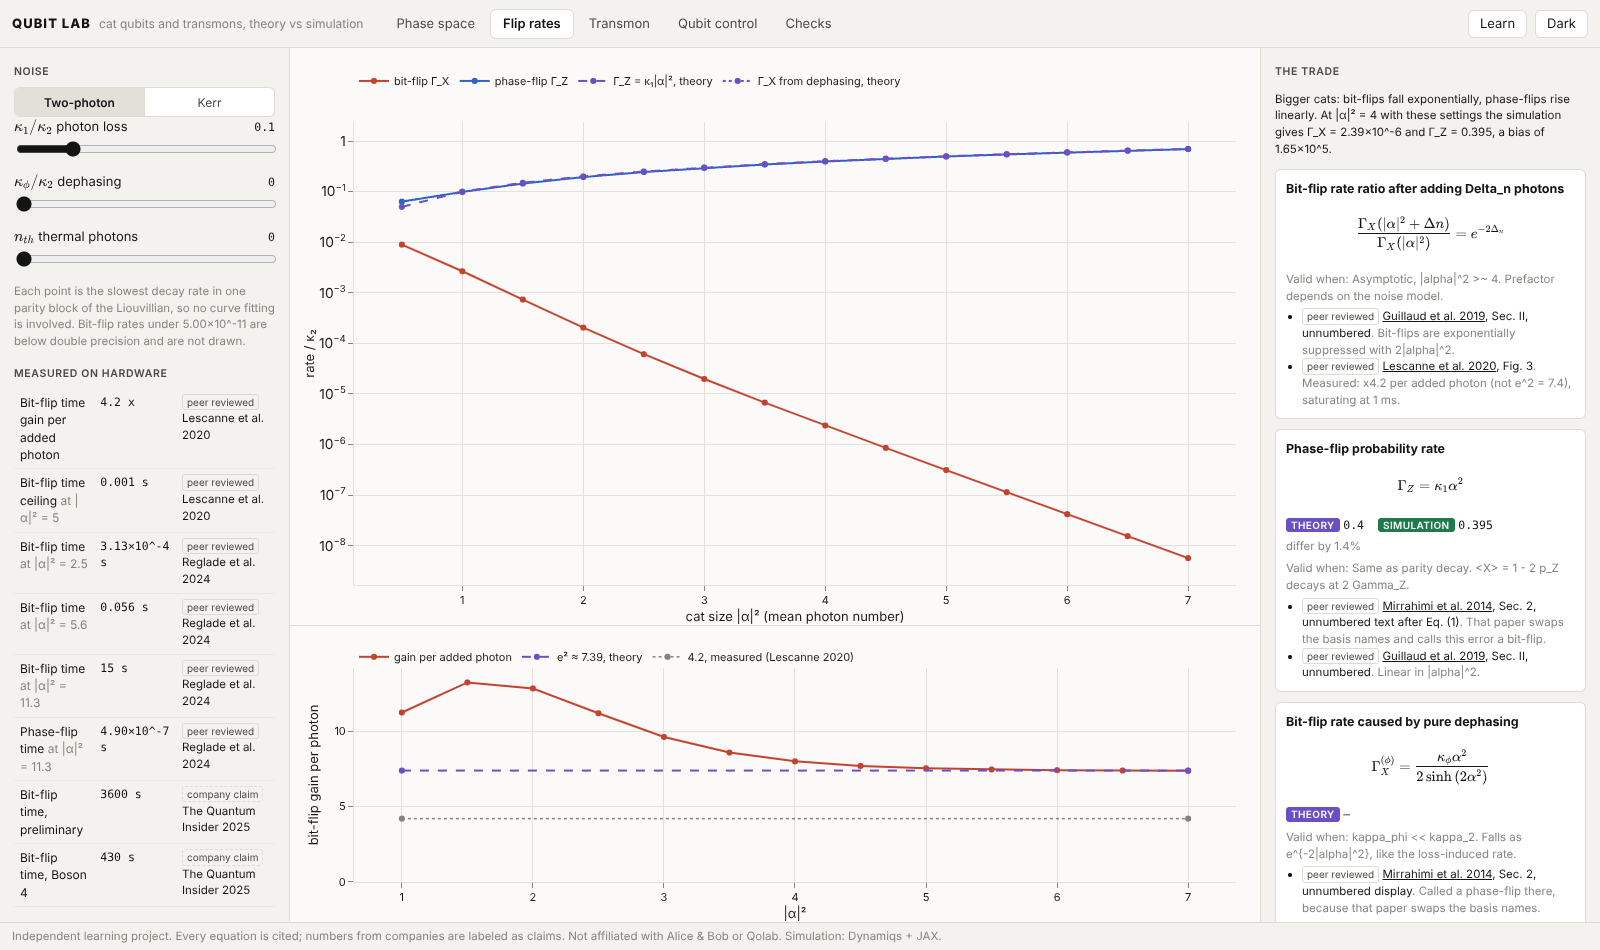
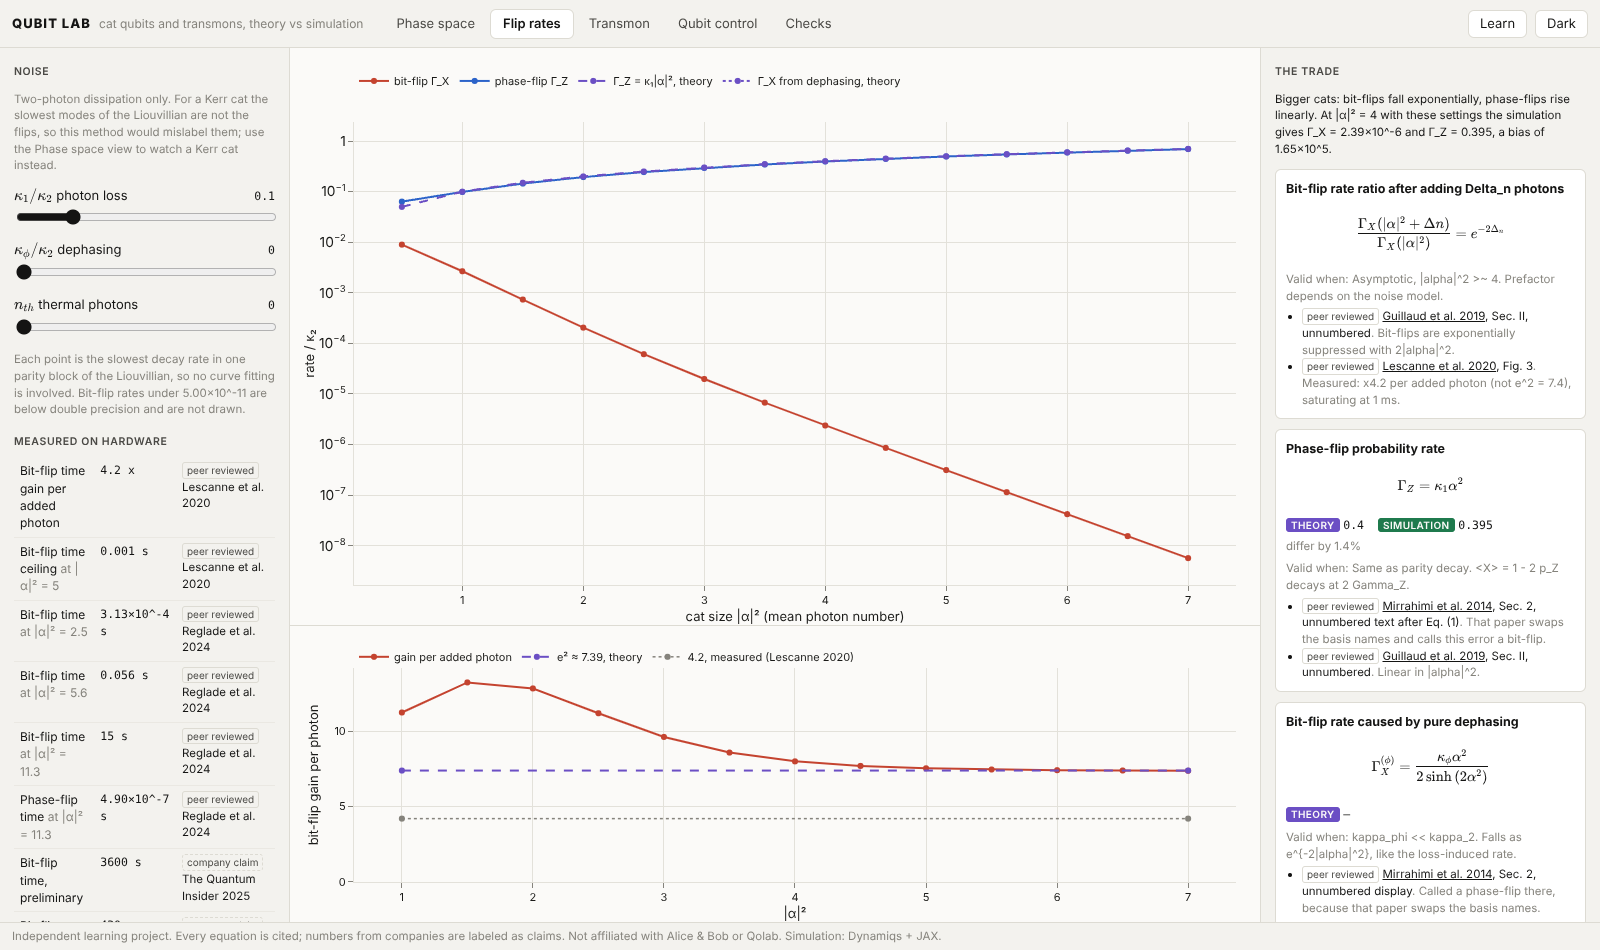
Physics review fixes
- Flip rates only for two-photon dissipation: for a Kerr cat or no stabilization the slowest
  Liouvillian modes are not the flips. Phase-flip rates below double precision are dropped.
- New derived formula: parity decay 2 kappa_1 |alpha|^2 coth(2|alpha|^2), exact in the two-cat
  space; matches the simulation to 0.2% at |alpha|^2 = 0.3 where the large-cat law misses by 86%.
- Docs: T2* vs T2, the 1-2 transition (not level 2) is |alpha| away, DRAG miss explained, the
  Kerr cats sit at the top of the spectrum for this sign of H, anharmonicity wording.

Changed region(s): [[0.0, 0.0916, 0.1875, 0.9463], [0.0625, 0.8853, 0.0938, 0.9158]]

diff --git a/web/src/views/FlipRates.tsx b/web/src/views/FlipRates.tsx
@@ -2,9 +2,9 @@
 // Liouvillian spectrum (simulation), theory lines from the closed forms, experiments as facts.
 
 import { useEffect, useState } from 'react'
-import { type CatParams, type Scheme, useFacts, useRates, useReferences } from '../api'
+import { type CatParams, useFacts, useRates, useReferences } from '../api'
 import { CONFIG, Plot, SERIES, layout } from '../components/Plot'
-import { ErrorBanner, FormulaCard, Segmented, Slider, shortCite } from '../components/ui'
+import { ErrorBanner, FormulaCard, Slider, shortCite } from '../components/ui'
 import { fmt } from '../lib/colormap'
 import { useExplorer } from '../store'
 
@@ -43,15 +43,10 @@ export function FlipRates() {
     <div className="view">
       <aside className="pane pane-left">
         <h3>Noise</h3>
-        <Segmented<Scheme>
-          label="Stabilization"
-          value={draft.scheme}
-          options={[
-            { value: 'dissipative', label: 'Two-photon' },
-            { value: 'kerr', label: 'Kerr' },
-          ]}
-          onChange={(scheme) => set({ scheme })}
-        />
+        <p className="small muted">
+          Two-photon dissipation only. For a Kerr cat the slowest modes of the Liouvillian are not the flips, so this
+          method would mislabel them; use the Phase space view to watch a Kerr cat instead.
+        </p>
         <Slider label="photon loss" tex="\kappa_1/\kappa_2" value={draft.kappa_1} min={0} max={0.5} step={0.01} onChange={(kappa_1) => set({ kappa_1 })} />
         <Slider label="dephasing" tex="\kappa_\phi/\kappa_2" value={draft.kappa_phi} min={0} max={0.5} step={0.01} onChange={(kappa_phi) => set({ kappa_phi })} />
         <Slider label="thermal photons" tex="n_{th}" value={draft.n_th} min={0} max={0.2} step={0.01} onChange={(n_th) => set({ n_th })} />

diff --git a/web/src/api.ts b/web/src/api.ts
@@ -59,7 +59,7 @@ export interface Evolution {
 
 export interface RateRow {
   alpha_sq: number
-  sim: { bit_flip_rate: number | null; phase_flip_rate: number; n_fock: number }
+  sim: { bit_flip_rate: number | null; phase_flip_rate: number | null; n_fock: number }
   theory: { phase_flip_rate: number | null; bit_flip_rate_dephasing: number | null }
 }
 

diff --git a/src/qubitlab/checks/cat_checks.py b/src/qubitlab/checks/cat_checks.py
@@ -112,6 +112,28 @@ def parity_decay() -> list[CheckResult]:
     return out
 
 
+@check("cat.parity_decay_exact", slow=True)
+def parity_decay_exact() -> list[CheckResult]:
+    # The coth form keeps the small-cat physics the large-cat law drops. It still assumes the
+    # state never leaves the two-cat space, so strong loss (kappa_1 ~ kappa_2) should break it.
+    regimes = ((0.3, 0.01, A), (1.0, 0.01, A), (4.0, 0.01, A), (1.0, 0.5, D))
+    out = []
+    for alpha_sq, k1, expected in regimes:
+        rates = sim.liouvillian_rates(sim.CatParams(alpha_sq=alpha_sq, kappa_1=k1))
+        out.append(
+            CheckResult(
+                key=f"cat.parity_decay_exact.{alpha_sq:g}.{k1:g}",
+                formula=th.parity_decay_rate_exact.key,
+                regime=f"|α|² = {alpha_sq:g}, κ₁/κ₂ = {k1:g}",
+                theory=float(th.parity_decay_rate_exact(kappa_1=k1, alpha=math.sqrt(alpha_sq))),
+                sim=rates.x_decay,
+                rel_tol=0.01,
+                expected=expected,
+            )
+        )
+    return out
+
+
 @check("cat.bit_flip_suppression", slow=True)
 def bit_flip_suppression() -> list[CheckResult]:
     # The e^{-2} per photon law is asymptotic: holds for big cats, not small ones.

diff --git a/docs/hand_calcs/cat_parity_decay.py b/docs/hand_calcs/cat_parity_decay.py
@@ -1,0 +1,21 @@
+"""Hand calc: parity decay of a stabilized cat, for any size.
+
+Two-photon dissipation keeps the state in the space spanned by the even and odd cats |C+>, |C->.
+A single-photon loss jump a turns |C+> into |C-> and back (a|C+> is proportional to |C->).
+The jump rate out of each state is kappa_1 <n> in that state:
+    n_+ = |alpha|^2 tanh|alpha|^2,   n_- = |alpha|^2 coth|alpha|^2   (gerry2005).
+For a two-state process with rates r1 (+ -> -) and r2 (- -> +), the difference of populations
+<P> = P_+ - P_- relaxes at r1 + r2. So
+    Gamma_P = kappa_1 |alpha|^2 (tanh|alpha|^2 + coth|alpha|^2)
+            = 2 kappa_1 |alpha|^2 coth(2|alpha|^2),     using tanh x + coth x = 2 coth 2x.
+For large cats coth -> 1 and this is 2 kappa_1 |alpha|^2.
+"""
+
+import sympy as sp
+
+x, k1 = sp.symbols("x kappa_1", positive=True)
+rate = k1 * x * (sp.tanh(x) + sp.coth(x))
+print("identity holds:", sp.simplify((rate - 2 * k1 * x * sp.coth(2 * x)).rewrite(sp.exp)) == 0)
+for n in (0.3, 1, 2, 4):
+    exact = float((2 * x * sp.coth(2 * x)).subs(x, n))
+    print(f"|alpha|^2 = {n}: Gamma_P / kappa_1 = {exact:.5f}  (large-cat law: {2 * n})")

diff --git a/src/qubitlab/theory/cat.py b/src/qubitlab/theory/cat.py
@@ -209,6 +209,29 @@ kerr_cat_amplitude = Formula(
     valid_when="H = -K a+^2 a^2 + epsilon_2 (a+^2 + a^2); |+-alpha> are degenerate eigenstates.",
 )
 
+parity_decay_rate_exact = Formula(
+    key="cat.parity_decay_rate_exact",
+    title="Parity decay, any cat size",
+    lhs=r"\Gamma_{P}",
+    expr=sp.Mul(
+        2,
+        kappa_1,
+        alpha**2,
+        sp.coth(sp.Mul(2, alpha**2, evaluate=False), evaluate=False),
+        evaluate=False,
+    ),
+    args=(kappa_1, alpha),
+    sources=(
+        Source(
+            "qubitlab_hand_calcs",
+            Kind.DERIVED,
+            "docs/hand_calcs/cat_parity_decay.py",
+            "Two-state jump picture: |C+> -> |C-> at kappa_1 n_+, back at kappa_1 n_-.",
+        ),
+    ),
+    valid_when="Two-photon dissipation dominates, so the state stays in the two-cat space.",
+)
+
 ALL = (
     coherent_overlap,
     wigner_coherent,
@@ -218,6 +241,7 @@ ALL = (
     odd_cat_photon_number,
     stabilized_photon_number,
     parity_decay_rate,
+    parity_decay_rate_exact,
     phase_flip_rate,
     bit_flip_suppression,
     bit_flip_rate_dephasing,

diff --git a/src/qubitlab/api.py b/src/qubitlab/api.py
@@ -56,6 +56,10 @@ class EvolveRequest(CatRequest):
 
 
 class RatesRequest(CatRequest):
+    # The Liouvillian block method reads the flip rates off the slowest modes. That is only
+    # right when the two cats are the slowest manifold, i.e. under two-photon dissipation. With
+    # a Kerr cat or no stabilization, faster-looking intra-well modes would be mislabeled.
+    scheme: Literal["dissipative"] = "dissipative"
     alpha_sq_values: list[float] = Field(
         default_factory=lambda: [0.5, 1.0, 1.5, 2.0, 3.0, 4.0, 5.0, 6.0, 7.0],
         max_length=20,
@@ -132,7 +136,7 @@ def _rates(body: dict[str, Any]) -> dict[str, Any]:
                 "alpha_sq": n,
                 "sim": {
                     "bit_flip_rate": r.bit_flip_rate if r.z_decay_resolved else None,
-                    "phase_flip_rate": r.phase_flip_rate,
+                    "phase_flip_rate": r.phase_flip_rate if r.x_decay_resolved else None,
                     "n_fock": r.n_fock,
                 },
                 "theory": theory,

diff --git a/tests/test_api.py b/tests/test_api.py
@@ -45,3 +45,8 @@ def test_qubit_t1_run_has_theory_curve() -> None:
 def test_qubit_rejects_t2_above_twice_t1() -> None:
     body = {"experiment": "t1", "t1_ns": 10.0, "t2_ns": 30.0}
     assert client.post("/api/qubit/run", json=body).status_code == 422
+
+
+def test_flip_rates_only_for_two_photon_dissipation() -> None:
+    # The Liouvillian block method mislabels modes for a Kerr cat or no stabilization.
+    assert client.post("/api/cat/rates", json={"scheme": "kerr"}).status_code == 422

diff --git a/docs/hand_calcs/kerr_cat_amplitude.py b/docs/hand_calcs/kerr_cat_amplitude.py
@@ -6,6 +6,8 @@ Classical limit: a -> a complex number b. The energy is
     E(b) = -K |b|^4 + epsilon_2 (b*^2 + b^2).
 For real b = x: E(x) = -K x^4 + 2 epsilon_2 x^2, and dE/dx = 0 gives x = 0 or x^2 = epsilon_2 / K.
 The two extrema x = +- sqrt(epsilon_2 / K) are the two cat states (degenerate, by symmetry).
+They are maxima of E, so with this sign of H the cats are the highest-energy states; they are
+the ground states of -H, the sign many papers use.
 """
 
 import sympy as sp

diff --git a/src/qubitlab/theory/qubit.py b/src/qubitlab/theory/qubit.py
@@ -72,7 +72,10 @@ ramsey = Formula(
     ),
     args=(t, T_2, sigma, Delta),
     sources=(hand("Step 4: Gaussian average of the fringe over a static detuning."),),
-    valid_when="Noise slower than one shot; sigma is its spread in frequency.",
+    valid_when=(
+        "Noise slower than one shot; sigma is its spread. T2 is the white-noise part; "
+        "the decay a Ramsey experiment measures is T2*."
+    ),
 )
 
 echo = Formula(

diff --git a/src/qubitlab/sim/cat.py b/src/qubitlab/sim/cat.py
@@ -159,6 +159,10 @@ class Rates:
         return self.z_decay > RATE_FLOOR
 
     @property
+    def x_decay_resolved(self) -> bool:
+        return self.x_decay > RATE_FLOOR
+
+    @property
     def bit_flip_rate(self) -> float:
         return self.z_decay / 2
 

diff --git a/docs/learn/06-qubit-control.md b/docs/learn/06-qubit-control.md
@@ -4,11 +4,11 @@ A qubit is only useful if you can rotate it and it remembers where it was. Two n
 
 **Rotating it.** A microwave drive at the qubit frequency turns |0⟩ into |1⟩ and back: a Rabi oscillation. Detune the drive by Δ and the rotation tilts, so it never fully reaches |1⟩. A π pulse is a short, shaped burst that does exactly half a turn.
 
-**Leakage.** A transmon is not a perfect two-level system. Level 2 sits only |α| ≈ 200 to 300 MHz above. A pulse that is too short has frequency content that reaches it. In our 4-level simulation, a 6 ns Gaussian π pulse with α = −200 MHz ends with 24% of the population in level 2.
+**Leakage.** A transmon is not a perfect two-level system. Its 1→2 transition sits only |α| ≈ 200 to 300 MHz below the 0→1 drive frequency. A pulse that is too short has frequency content that reaches it. In our 4-level simulation, a 6 ns Gaussian π pulse with α = −200 MHz ends with 24% of the population in level 2.
 
-**DRAG.** Add a second drive, 90° out of phase and proportional to the slope of the first. That cancels the leakage path to first order. The same 6 ns pulse now leaks 0.4%. It still misses |1⟩ by 13%, because level 2 also shifts the qubit frequency. Real labs tune the DRAG coefficient and the detuning together.
+**DRAG.** Add a second drive, 90° out of phase and proportional to the slope of the first. That cancels the leakage path to first order. The same 6 ns pulse now leaks 0.4%. It still misses |1⟩ by 13%: the pulse is too fast for first-order DRAG, and level 2 also shifts the qubit frequency. Real labs tune the DRAG coefficient, the detuning and the amplitude together.
 
-**Forgetting.** T1 is how long |1⟩ survives before it decays to |0⟩. T2 is how long a superposition keeps its phase, and 1/T2 = 1/(2T1) + 1/T_φ, so T2 is at most 2T1. A Ramsey experiment measures T2. Slow frequency noise makes Ramsey fringes die faster. A Hahn echo flips the qubit halfway and cancels that slow noise.
+**Forgetting.** T1 is how long |1⟩ survives before it decays to |0⟩. T2 is how long a superposition keeps its phase, and 1/T2 = 1/(2T1) + 1/T_φ, so T2 is at most 2T1. Slow frequency noise makes Ramsey fringes die faster, so Ramsey measures T2*, which is shorter than T2. A Hahn echo flips the qubit halfway and cancels that slow noise; it measures T2E, closer to T2.
 
 **One finding.** The two-level Rabi formula misses by 1.8% for a 10 MHz drive detuned by 10 MHz. Level 2 shifts the resonance by about Ω²/(2|α|). The checks page shows it.
 

diff --git a/README.md b/README.md
@@ -14,9 +14,9 @@ A learning project. Alice & Bob build cat qubits; Qolab builds transmon-family q
 ## Findings
 
 1. In the ideal two-photon model, each added photon cuts the bit-flip rate by e² ≈ 7.4 once |α|² ≳ 5. The 2020 experiment by Lescanne et al. measured 4.2.
-2. The phase-flip rate κ₁|α|² matches simulation to 0.2% for |α|² ≥ 2, and is off by 86% at |α|² = 0.3, where there is no cat to speak of.
-3. Koch et al.'s transmon frequency holds to 1% for E_J/E_C ≥ 20, but the true anharmonicity is 10 to 15% larger than E_C at E_J/E_C = 50 to 100.
-4. On a 4-level transmon, a 6 ns π pulse leaks 24% of the population to level 2. DRAG cuts that to 0.4%, but the pulse still misses |1⟩ by 13%, because level 2 also shifts the qubit frequency. The same shift makes the two-level Rabi formula miss by 1.8% for a detuned drive.
+2. The phase-flip rate κ₁|α|² matches simulation to 0.2% for |α|² ≥ 2, and is off by 86% at |α|² = 0.3. The exact two-cat result, 2κ₁|α|² coth(2|α|²), which we derive, matches there to 0.2%: the simple law only drops the small-cat correction.
+3. Koch et al.'s transmon frequency holds to 1% for E_J/E_C ≥ 20, but the true anharmonicity is 10 to 15% larger in magnitude than E_C at E_J/E_C = 50 to 100.
+4. On a 4-level transmon with α = −200 MHz, a 6 ns π pulse leaks 24% of the population to level 2. DRAG cuts that to 0.4%, but the pulse still misses |1⟩ by 13%: its peak drive is 0.67|α|, past where first-order DRAG holds, and level 2 also shifts the qubit frequency. The same shift makes the two-level Rabi formula miss by 1.8% for a detuned drive.
 
 ## Run
 
